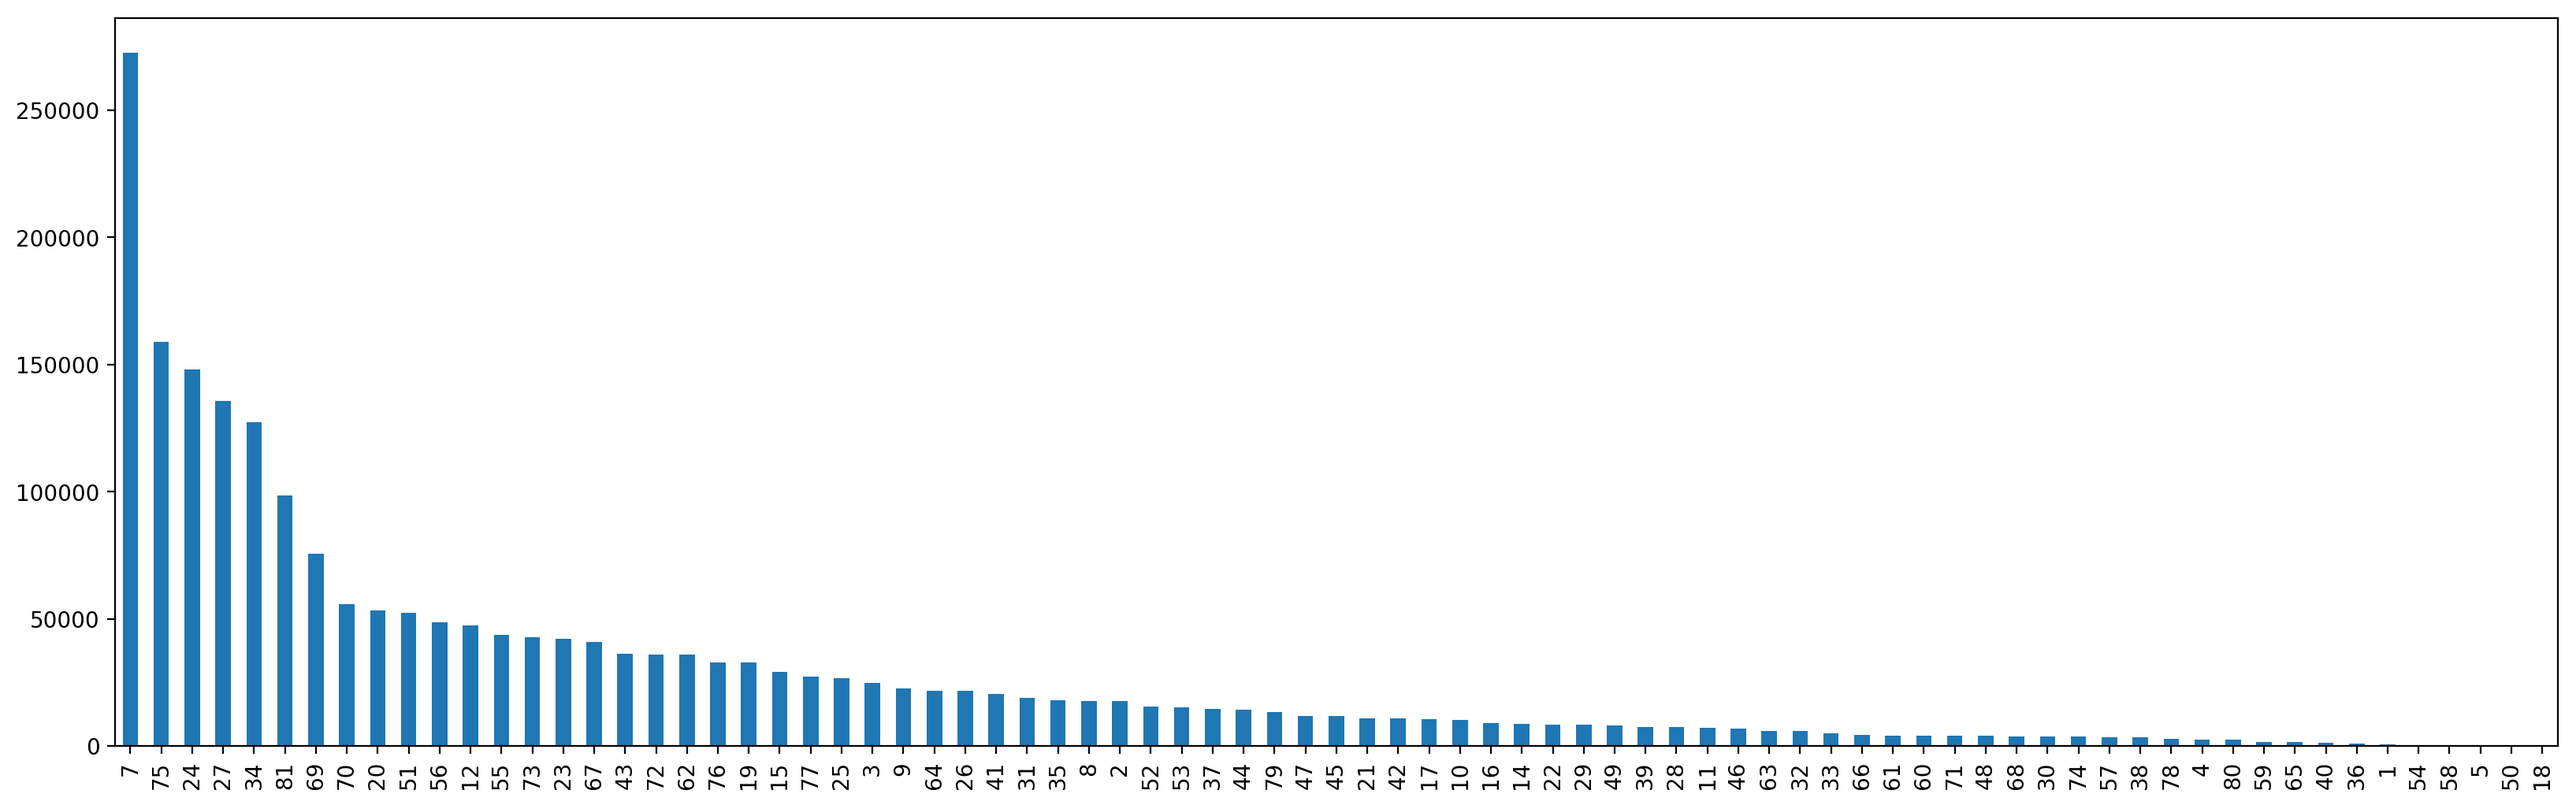
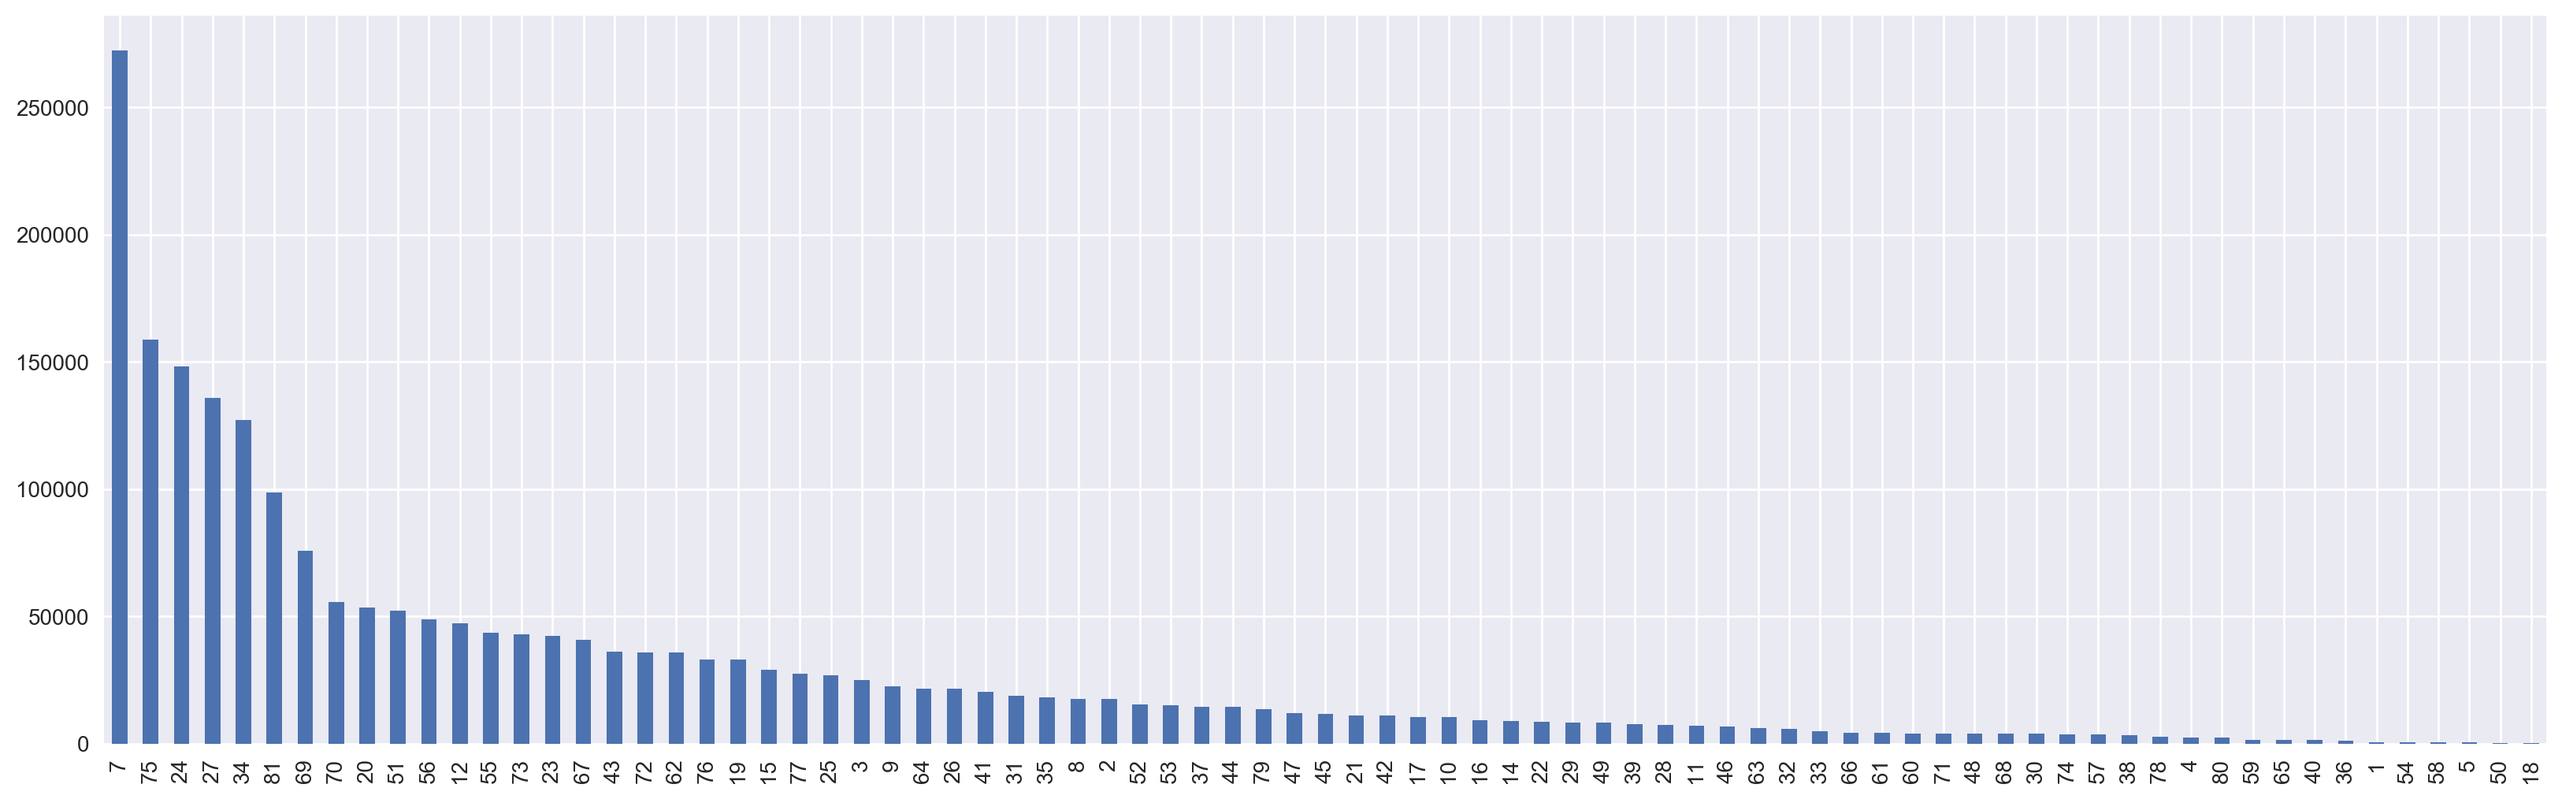
update seaborn stype

Changed region(s): [[0.0, 0.0611, 0.9938, 0.9783], [0.9628, 0.0, 0.9938, 0.0306]]

diff --git a/anaylz/stats.py b/anaylz/stats.py
@@ -21,6 +21,7 @@ pd.set_option('display.max_columns', None)
 pd.set_option('display.max_rows', None)
 pd.set_option('display.width', None)
 register_matplotlib_converters()
+plt.style.use('seaborn')
 # 时间划分
 data_start_date = "2018-02-01"
 data_end_date = "2018-04-15"
@@ -133,7 +134,6 @@ def daily_buy_line():
     buy_user_amt.to_csv('./csv/daily_buy_user_amt.csv', index=False)
     plt.figure(figsize=(20, 6))
     plt.xticks(rotation=90)
-    plt.grid()
     ax = plt.gca()
     ax.plot_date(buy_user_amt['action_date'].values, buy_user_amt['user_amt'].values, linestyle="-", marker="o")
     plt.gca().xaxis.set_major_formatter(mdates.DateFormatter('%m-%d'))
@@ -190,4 +190,5 @@ def feat_bar(f_path):
 
 if __name__ == "__main__":
     # total_bar()
+    # buy_cate_bar()
     daily_buy_line()
